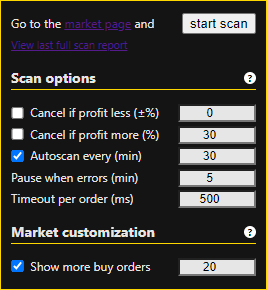
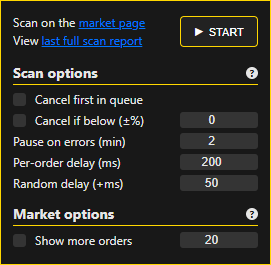
update popup, readme and screenshot

diff --git a/SORS/ext/popup/popup.html b/SORS/ext/popup/popup.html
@@ -27,10 +27,13 @@
                     <p
                         class="title__help"
                         title=">
-   Scan options info:
-   1.  Cancel first placed: mark order & cancel (if checked) if the order is first in the queue.
-   2.  Cancel if less (±%): mark order & cancel (if checked) if profit percent less then indicated value.
-   _"
+    Scan options:
+        • Cancel first in queue — mark and cancel (if enabled) when your order is first in the queue.
+        • Cancel if below (±%) — mark and cancel (if enabled) when profit percent is below the threshold.
+        • Pause on errors (min) — wait this many minutes after few errors in a row.
+        • Per-order delay (ms) — base delay between orders.
+        • Random delay (+ms) — random extra delay added to the base.
+    _"
                     >
                         ?
                     </p>
@@ -38,7 +41,7 @@
 
                 <div class="setting">
                     <label class="container"
-                        >Cancel first placed
+                        >Cancel first in queue
                         <input type="checkbox" id="cancelFirstOrders" name="cancelFirstOrders" unchecked />
                         <span class="checkmark"></span>
                     </label>
@@ -46,7 +49,7 @@
 
                 <div class="setting">
                     <label class="container"
-                        >Cancel if less (&plusmn;%)
+                        >Cancel if below (&plusmn;%)
                         <input type="checkbox" id="cancelHighOrders" name="cancelHighOrders" unchecked />
                         <span class="checkmark"></span>
                     </label>
@@ -59,30 +62,31 @@
                 </div>
 
                 <div class="setting">
-                    <label>Delay per order (ms)</label>
+                    <label>Per-order delay (ms)</label>
                     <input type="number" id="delayPerOrder" min="0" max="9999" placeholder="200" />
                 </div>
 
                 <div class="setting">
-                    <label>Delay random (+ms)</label>
+                    <label>Random delay (+ms)</label>
                     <input type="number" id="delayRandom" min="0" max="9999" placeholder="50" />
                 </div>
             </div>
 
             <div class="settings__block">
                 <div class="title">
-                    <h2 class="title__text">Market customization</h2>
+                    <h2 class="title__text">Market options</h2>
                     <p
                         class="title__help"
                         title=">
-   Show more buy orders: expands buy/sell request tables with set value on the item pages if it possible.
-   Also there are few more useful things by default such as:
-      •  showing lot prices without fee on the item pages
-      •  showing number of sold items in the last 24 hours in the left bottom corner of median sale prices 
-         graph on the item page
-      •  showing sum of all orders and sell listings on the main market page near headers
-      •  adding left/was quantity to all orders on the main market page
-   _"
+    Market options:
+        • Show more orders — expands buy/sell tables on item pages when possible.
+        
+    Also includes by default:
+        • Show lot prices without fee on item pages.
+        • Show sold in last 24h on the price graph.
+        • Show totals of orders and listings on the main market page.
+        • Add left/was quantities to orders on the main market page.
+    _"
                     >
                         ?
                     </p>

diff --git a/README.md b/README.md
@@ -4,47 +4,50 @@
 <h1 align="center">Steam Order Scanner</h1>
 
 <p align="center">
-  <a href="https://chrome.google.com/webstore/detail/steam-order-scanner/poaddkofidcihbbodleahclcjoghdilh"><img src="https://storage.googleapis.com/chrome-gcs-uploader.appspot.com/image/WlD8wC6g8khYWPJUsQceQkhXSlv1/iNEddTyWiMfLSwFD6qGq.png" alt="Get uBlock Origin for Firefox"></a> 
+  <a href="https://chrome.google.com/webstore/detail/steam-order-scanner/poaddkofidcihbbodleahclcjoghdilh"><img src="https://developer.chrome.com/static/docs/webstore/branding/image/UV4C4ybeBTsZt43U4xis.png" alt="Get Steam Order Scanner for Chrome"></a> 
 </p>
 
 <h3 align="center">
-  <a href="https://github.com/auwaho/steam-order-scanner/releases/download/1.7.0/SORS.zip">Direct dowload link</a>
+  <a href="https://github.com/auwaho/steam-order-scanner/releases/latest">Direct download (GitHub release)</a>
 </h3>
 
-**Note: I highly recommend starting the first scan without any cancel order marks, just to make sure the extension works correctly in your case. ~~It was also noted that any extensions that modify the content on the market page may lead to incorrect extension work. Just make sure the market page is fully loaded before scanning.~~ Сhecked compatibility with extensions: Steam Inventory Helper, Steam Trader Helper, Augmented Steam.**
+<p align="center"><b>Manifest V3</b>: This version targets Chrome Manifest V3 (v2.0.0+). For the legacy Manifest V2 build, download <a href="https://github.com/auwaho/steam-order-scanner/releases/tag/1.7.1">v1.7.1</a>.</p>
+
+**Note: I highly recommend running your first scan with cancellation options disabled ("Cancel first in queue" and "Cancel if below (±%)") to make sure the extension works correctly for you. Compatibility checked with: Steam Inventory Helper, Steam Trader Helper, Augmented Steam.**
 
 ## Description
 
-Steam Order Scanner (SORS) is a Google Chrome browser extension which main function is to keep your Steam Community Market buy orders profitable. The extension also adds some useful functionality to the Market pages. More interesting features coming soon, wait for updates!
+Steam Order Scanner (SORS) is a Chrome extension that helps keep your Steam Community Market buy orders profitable and enhances market pages with useful features.
 
-![alt text](https://github.com/auwaho/steam-order-scanner/blob/master/screenshots/screenshot.png "Steam Listings Scanner")
+![alt text](https://github.com/auwaho/steam-order-scanner/blob/master/screenshots/screenshot.png 'Steam Listings Scanner')
 
 <details>
   <summary>All screenshots</summary>
   
 ![alt text](https://github.com/auwaho/steam-order-scanner/blob/master/screenshots/screenshot_7.png "Steam Listings Scanner")
 
-![alt text](https://github.com/auwaho/steam-order-scanner/blob/master/screenshots/screenshot_2.png "Steam Listings Scanner")
+![alt text](https://github.com/auwaho/steam-order-scanner/blob/master/screenshots/screenshot_2.png 'Steam Listings Scanner')
 
-![alt text](https://github.com/auwaho/steam-order-scanner/blob/master/screenshots/screenshot_3.png "Steam Listings Scanner")
+![alt text](https://github.com/auwaho/steam-order-scanner/blob/master/screenshots/screenshot_3.png 'Steam Listings Scanner')
 
-![alt text](https://github.com/auwaho/steam-order-scanner/blob/master/screenshots/screenshot_4.png "Steam Listings Scanner")
+![alt text](https://github.com/auwaho/steam-order-scanner/blob/master/screenshots/screenshot_4.png 'Steam Listings Scanner')
 
-![alt text](https://github.com/auwaho/steam-order-scanner/blob/master/screenshots/screenshot_5.png "Steam Listings Scanner")
+![alt text](https://github.com/auwaho/steam-order-scanner/blob/master/screenshots/screenshot_5.png 'Steam Listings Scanner')
 
-![alt text](https://github.com/auwaho/steam-order-scanner/blob/master/screenshots/screenshot_6.png "Steam Listings Scanner")
+![alt text](https://github.com/auwaho/steam-order-scanner/blob/master/screenshots/screenshot_6.png 'Steam Listings Scanner')
 
 </details>
 
-#### Extension functions for now: 
-- **single scan** your buy order list for profitability (individual listings and commodity type items). Marks each order with color (green = ok, yellow = too low, red = overpriced). Refers to your set values. Adding overpiced items after fully completed scan to report;
-- **autoscan** works by the same logic and uses the same settings as single scan but doesn't require market tab open. If you close the browser with the autoscan turned on, it will start itself when you open it;
-- **auto cancellation** overpriced or too low orders;
-- displaying **"market_listing_price_without_fee"** under the price of each lot on the item page;
-- ability to show **more buy orders and sales** (sales for commodity type items) on the item page. Quantity sets up in the popup window;
-- showing **number of lots purchased** out of set number in each order on the main market page;
-- showing **sum of orders and listings** near headers on the main market page;
-- showing **last 24 hours sold items quantity** under median sales graph on the item page. 
+#### Extension features
+
+-   **Single scan** of your buy orders for profitability (individual listings and commodity items). Marks each order with color: green = profitable, yellow = first in queue, red = unprofitable. Uses your configured thresholds. Adds flagged orders to the scan report at the end.
+-   **Optional auto-cancellation** of risky orders. Controlled by scan options: "Cancel first in queue" and "Cancel if below (±%)".
+-   Display **`market_listing_price_without_fee`** under the price of each lot on the item page.
+-   Ability to **show more buy and sell orders** on item pages (for commodity items: sales). Quantity is configurable in the popup.
+-   Show **number of lots purchased** out of the set quantity in each order on the main market page.
+-   Show **totals of orders and listings** near headers on the main market page.
+-   Show **last 24 hours sold quantity** under the median sales graph on item pages.
+-   **Scan report**: view the last full scan report from the extension popup.
 
 ## Supporting the project
 
